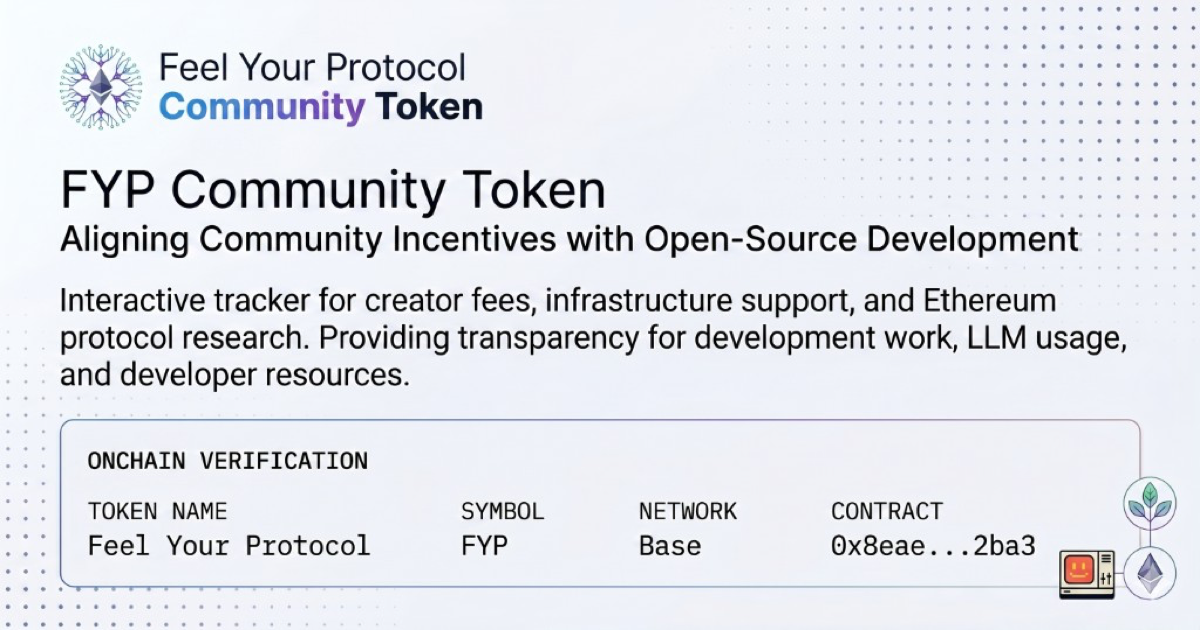
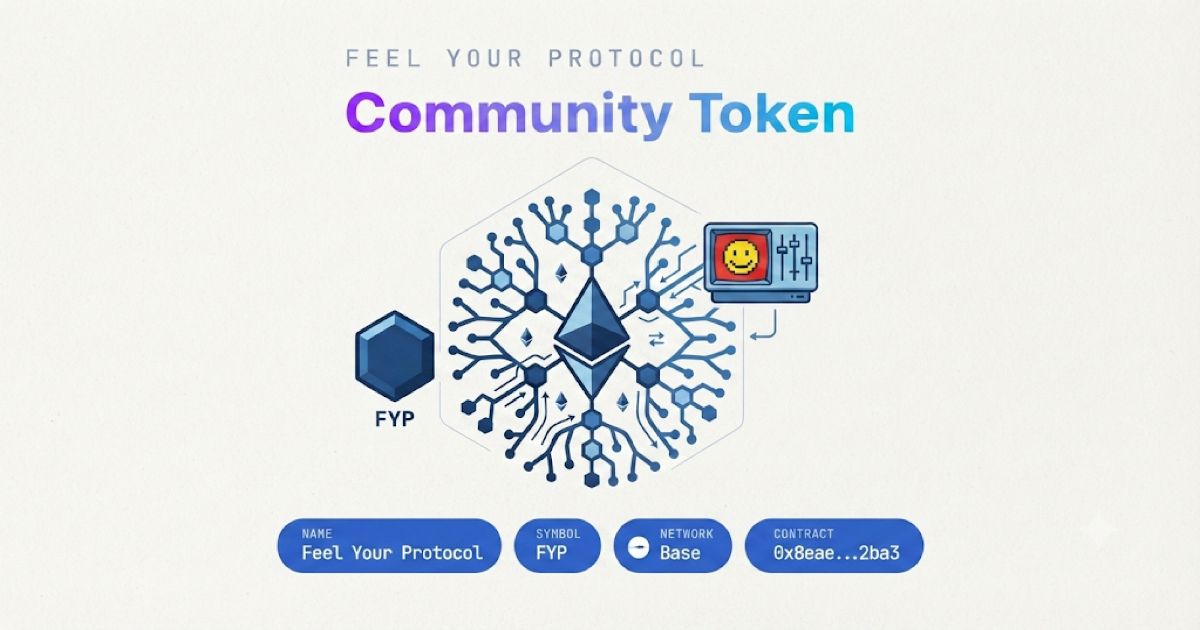
Some more stuff (#26)
* Community token branding

* Transparenz

diff --git a/community-token/src/components/SiteHeader.vue b/community-token/src/components/SiteHeader.vue
@@ -1,4 +1,5 @@
 <script setup lang="ts">
+import { SITE_LOGO } from '@ct/content/brand'
 import { SITE_VERSION } from '@ct/content/version'
 
 const MAIN_SITE_URL = 'https://feelyourprotocol.org'
@@ -7,23 +8,32 @@ const MAIN_SITE_URL = 'https://feelyourprotocol.org'
 <template>
   <header class="ct-card sticky top-2 z-10 px-4 py-3 md:px-6">
     <div class="flex flex-col gap-3 md:flex-row md:items-center md:justify-between">
-      <div>
-        <p class="font-mono text-[0.65rem] uppercase tracking-[0.2em] text-slate-400">
-          Feel Your Protocol
-        </p>
-        <h1 class="flex items-center gap-2 text-xl font-bold tracking-wide md:text-2xl">
-          <span class="ct-gradient-text">Community Token</span>
-          <span
-            class="rounded-md border border-slate-300 bg-slate-100 px-1.5 py-0.5 font-mono text-[0.6rem] uppercase tracking-[0.15em] text-slate-600"
-          >
-            {{ SITE_VERSION }}
-          </span>
-          <span
-            class="rounded-md border border-amber-300 bg-amber-50 px-1.5 py-0.5 font-mono text-[0.6rem] uppercase tracking-[0.15em] text-amber-700"
-          >
-            Draft
-          </span>
-        </h1>
+      <div class="flex min-w-0 items-center gap-3">
+        <img
+          :src="SITE_LOGO.src"
+          :alt="SITE_LOGO.alt"
+          :width="SITE_LOGO.width"
+          :height="SITE_LOGO.height"
+          class="size-[3.5rem] shrink-0 object-contain md:size-[4.25rem]"
+        />
+        <div class="min-w-0">
+          <p class="font-mono text-[0.65rem] uppercase tracking-[0.2em] text-slate-400">
+            Feel Your Protocol
+          </p>
+          <h1 class="flex flex-wrap items-center gap-2 text-xl font-bold tracking-wide md:text-2xl">
+            <span class="ct-gradient-text">Community Token</span>
+            <span
+              class="rounded-md border border-slate-300 bg-slate-100 px-1.5 py-0.5 font-mono text-[0.6rem] uppercase tracking-[0.15em] text-slate-600"
+            >
+              {{ SITE_VERSION }}
+            </span>
+            <span
+              class="rounded-md border border-amber-300 bg-amber-50 px-1.5 py-0.5 font-mono text-[0.6rem] uppercase tracking-[0.15em] text-amber-700"
+            >
+              Draft
+            </span>
+          </h1>
+        </div>
       </div>
 
       <nav class="flex flex-wrap items-center gap-2 font-mono text-xs">

diff --git a/community-token/src/App.vue b/community-token/src/App.vue
@@ -7,7 +7,6 @@ import SiteFooter from '@ct/components/SiteFooter.vue'
 import SiteHeader from '@ct/components/SiteHeader.vue'
 import TokenInfoCard from '@ct/components/TokenInfoCard.vue'
 import TreasurySection from '@ct/components/TreasurySection.vue'
-import VisualPlaceholder from '@ct/components/VisualPlaceholder.vue'
 import { GUIDELINE_TABS, INTRO } from '@ct/content/topics'
 </script>
 
@@ -47,8 +46,6 @@ import { GUIDELINE_TABS, INTRO } from '@ct/content/topics'
           </section>
 
           <TokenInfoCard />
-
-          <VisualPlaceholder class="hidden lg:flex lg:min-h-32 lg:flex-1" />
 
           <TreasurySection />
         </div>

diff --git a/community-token/index.html b/community-token/index.html
@@ -2,7 +2,7 @@
 <html lang="en">
   <head>
     <meta charset="UTF-8" />
-    <link rel="icon" href="/src/favicon.png" />
+    <link rel="icon" href="/favicon.png" type="image/png" sizes="32x32" />
     <meta name="viewport" content="width=device-width, initial-scale=1.0" />
     <title>Community Token — Feel Your Protocol</title>
   </head>

diff --git a/community-token/src/content/brand.ts b/community-token/src/content/brand.ts
@@ -1,0 +1,9 @@
+/** Stable paths under `community-token/public/` — copied to dist on build. */
+export const SITE_LOGO = {
+  src: '/logo.png',
+  alt: 'Feel Your Protocol community token logo',
+  width: 512,
+  height: 512,
+} as const
+
+export const SITE_FAVICON = '/favicon.png' as const
